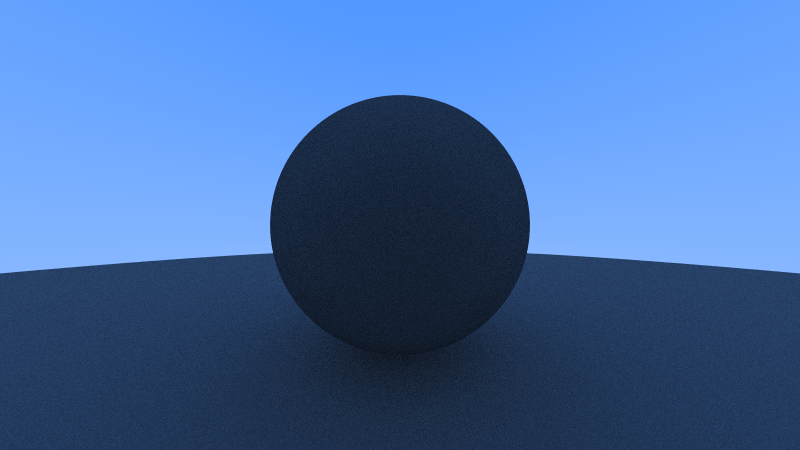
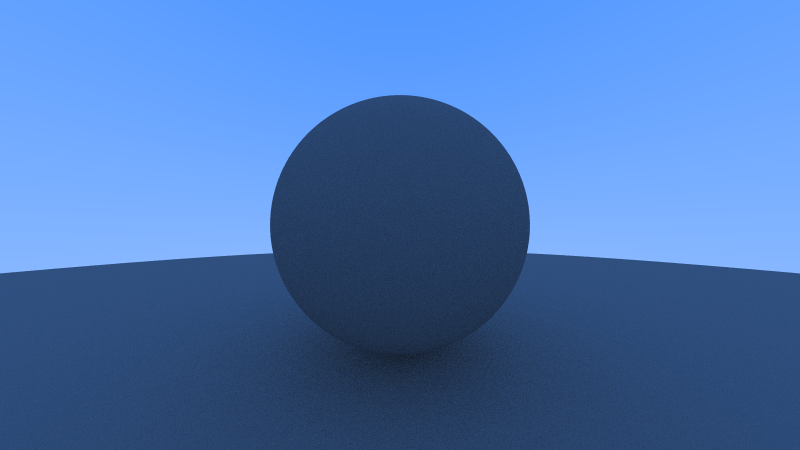
Fixed shadow acne.

diff --git a/Include/Camera.h b/Include/Camera.h
@@ -105,7 +105,8 @@ class Camera
             return Color(0, 0, 0);
 
         HitRecord rec;
-        if (world.Hit(r, Interval(0, infinity), rec))
+
+        if (world.Hit(r, Interval(0.001, infinity), rec))
         {
             Vector3 direction = RandomOnHemisphere(rec.normal);
             return 0.5 * RayColor(Ray(rec.p, direction), depth - 1, world);

diff --git a/RTWeekend.cc b/RTWeekend.cc
@@ -37,7 +37,7 @@ int main()
     camera.aspectRatio = 16.0 / 9.0;
     camera.imageWidth = 800;
     camera.samplesPerPixel = 100;
-    camera.maxDepth = 50;
+    camera.maxDepth = 10;
 
     camera.Render(world);
 
